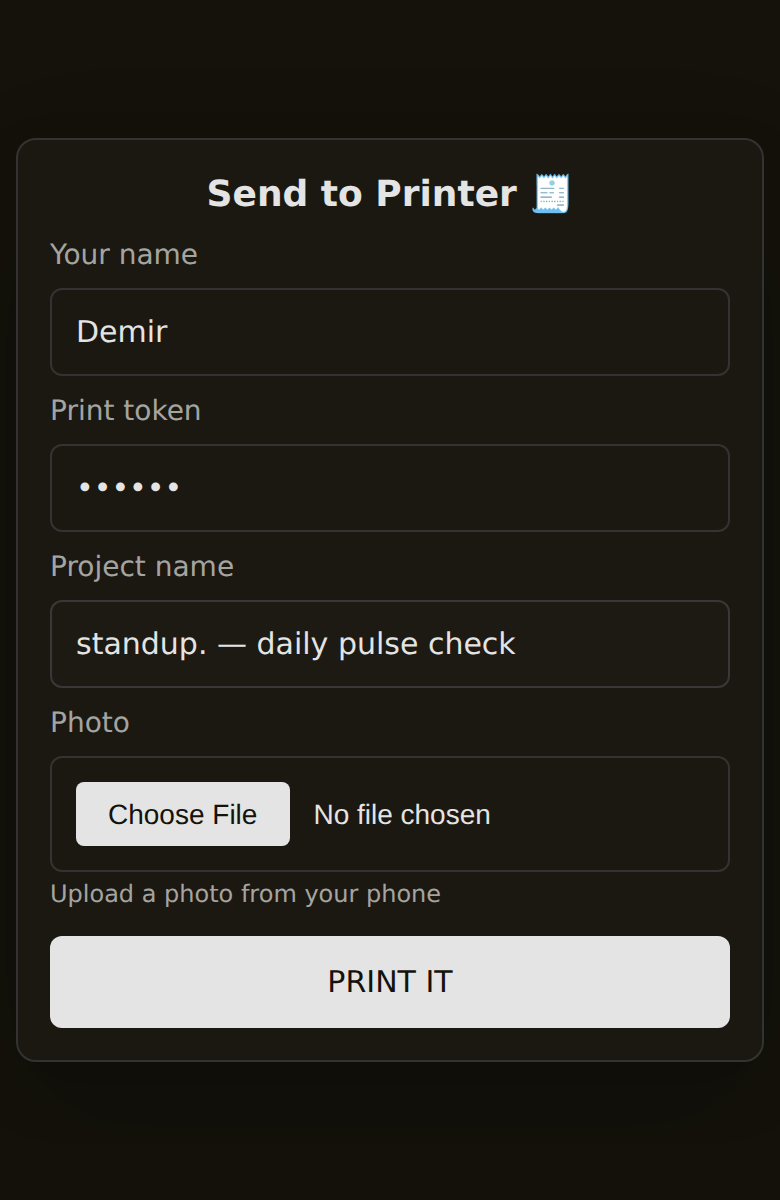
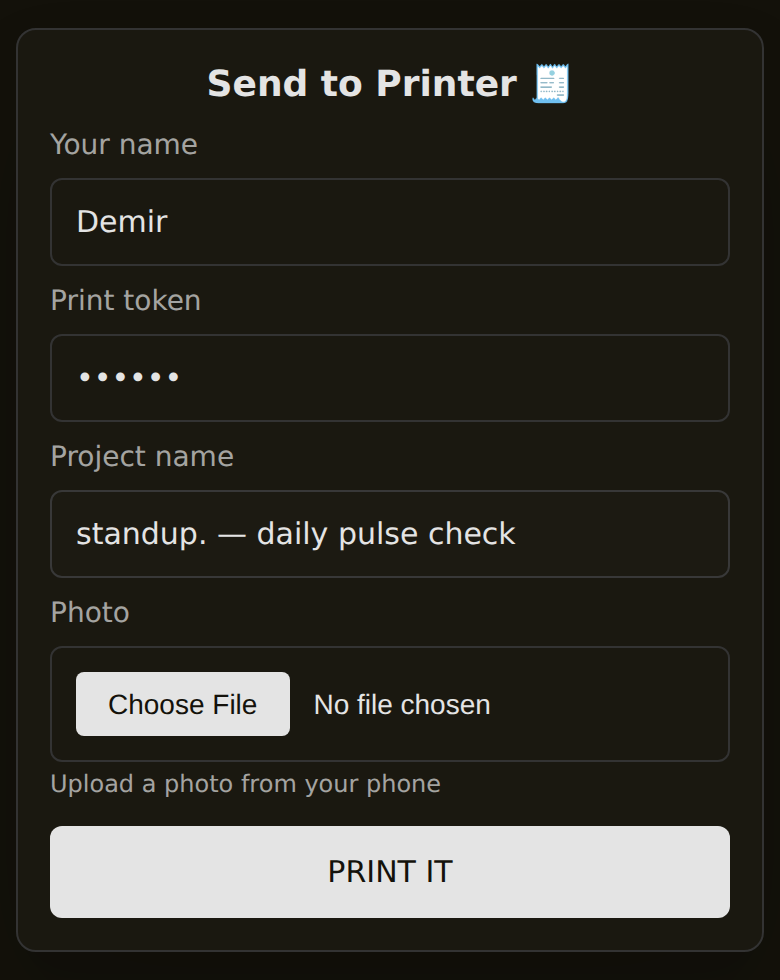
Add photos of real receipts to the README
- Add two photos of printed receipts: the first version at Cafe Cursor
  and the current layout with the Freeform logo
- Rewrite the intro around why the project exists
- Move the upload page screenshot into "How it works" and crop it

Changed region(s): [[0.0615, 0.5204, 0.9538, 0.949], [0.0615, 0.0612, 0.7385, 0.4898], [0.9538, 0.0918, 0.9846, 0.1224]]

diff --git a/README.md b/README.md
@@ -1,14 +1,25 @@
 # cursor-receipts 🧾
 
-A thermal receipt print station for builder events. Builders open a page on their phone, type what they're building, add a photo of it, and it prints as a receipt a few seconds later. Everyone walks out holding what they made.
+When you build software there's nothing to hold at the end, just a URL and a screenshot. cursor-receipts gives builder events a physical keepsake. People open a page on their phone, type what they're building and add a photo, and a thermal printer on the table prints it as a receipt a few seconds later. Everyone walks out holding what they made.
 
-Built in March 2026 for Cafe Cursor, the builder pop-ups I ran in Waterloo and Toronto as Cursor's campus lead. Inspired by the print station Ameen Neami set up at Toronto's first Cafe Cursor.
+I built it for the Cursor community events I ran as campus lead in Waterloo and Toronto, from Cafe Cursor pop-ups to Freeform build nights. It was inspired by the print station Ameen Neami set up at Toronto's first Cafe Cursor.
 
-<p align="center">
-  <img src="docs/web-ui.png" width="320" alt="The Send to Printer page, with fields for name, print token, project name and photo">
-</p>
+<table>
+  <tr>
+    <td width="50%"><img src="docs/receipt-cafe-cursor.jpg" alt="Demir at Cafe Cursor holding a printed receipt with the Cursor logo, his name, what he is building, and a dithered photo of himself"></td>
+    <td width="50%"><img src="docs/receipt-freeform.jpg" alt="A receipt with the Cursor Freeform logo reading 'Justin, Shayaan, Demir', 'BUILDING... Cursor @ Waterloo', above a dithered photo of the three of them"></td>
+  </tr>
+  <tr>
+    <td align="center"><sub>The first version, at Cafe Cursor</sub></td>
+    <td align="center"><sub>The current layout, with the Freeform logo</sub></td>
+  </tr>
+</table>
 
 ## How it works
+
+<p align="center">
+  <img src="docs/web-ui.png" width="280" alt="The Send to Printer page, with fields for name, print token, project name and photo">
+</p>
 
 ```
 phone ──► web form ──► Bun server (laptop) ──► print queue ──► lp -o raw ──► USB thermal printer
